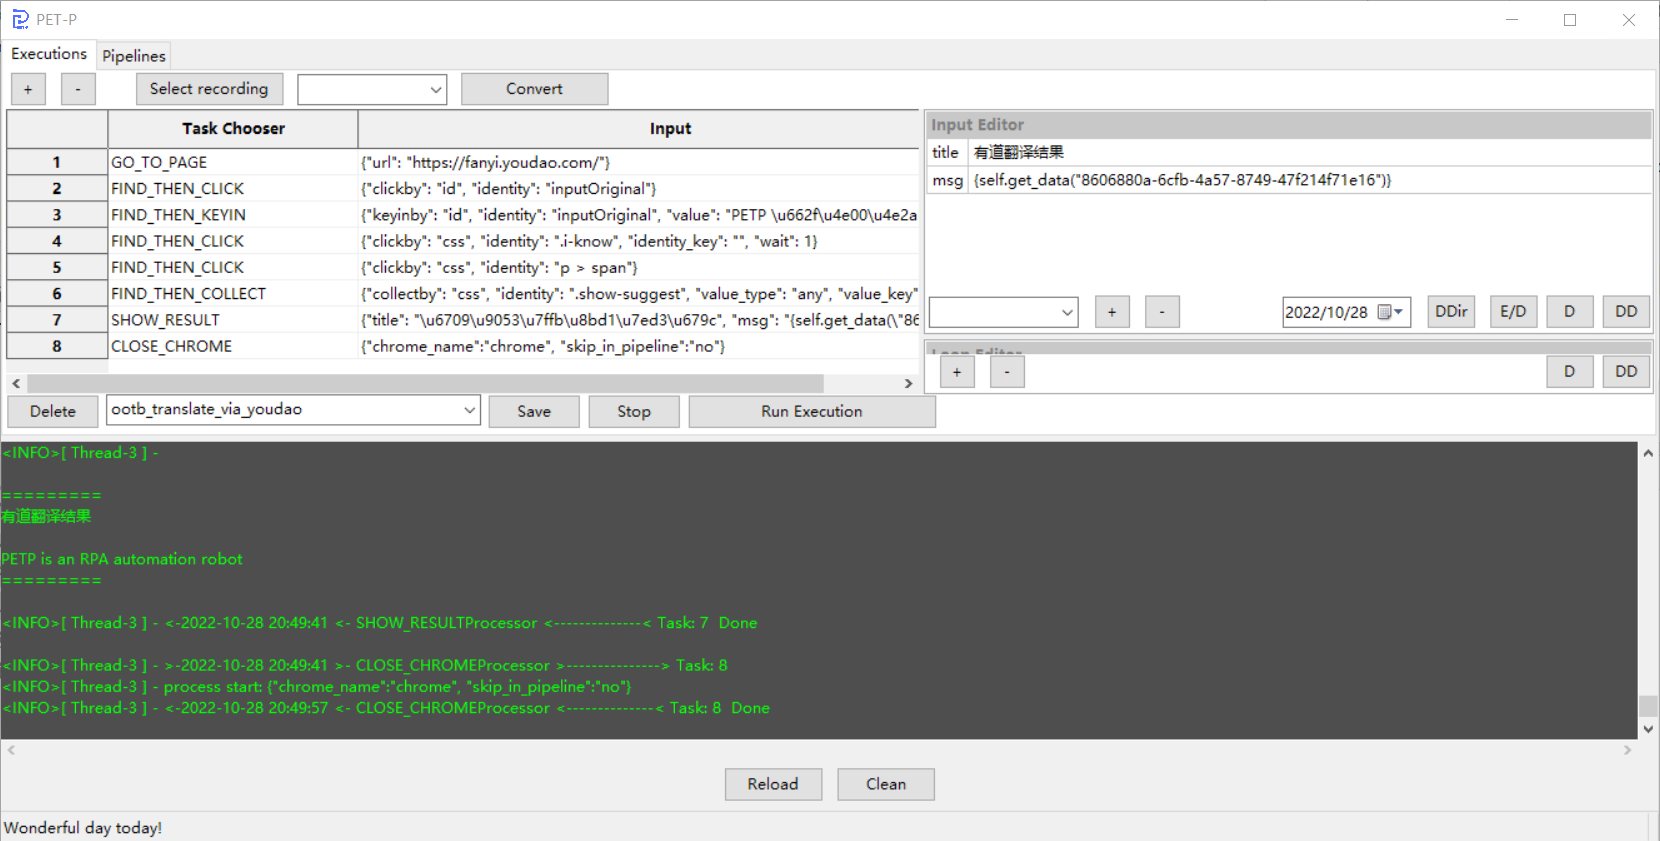
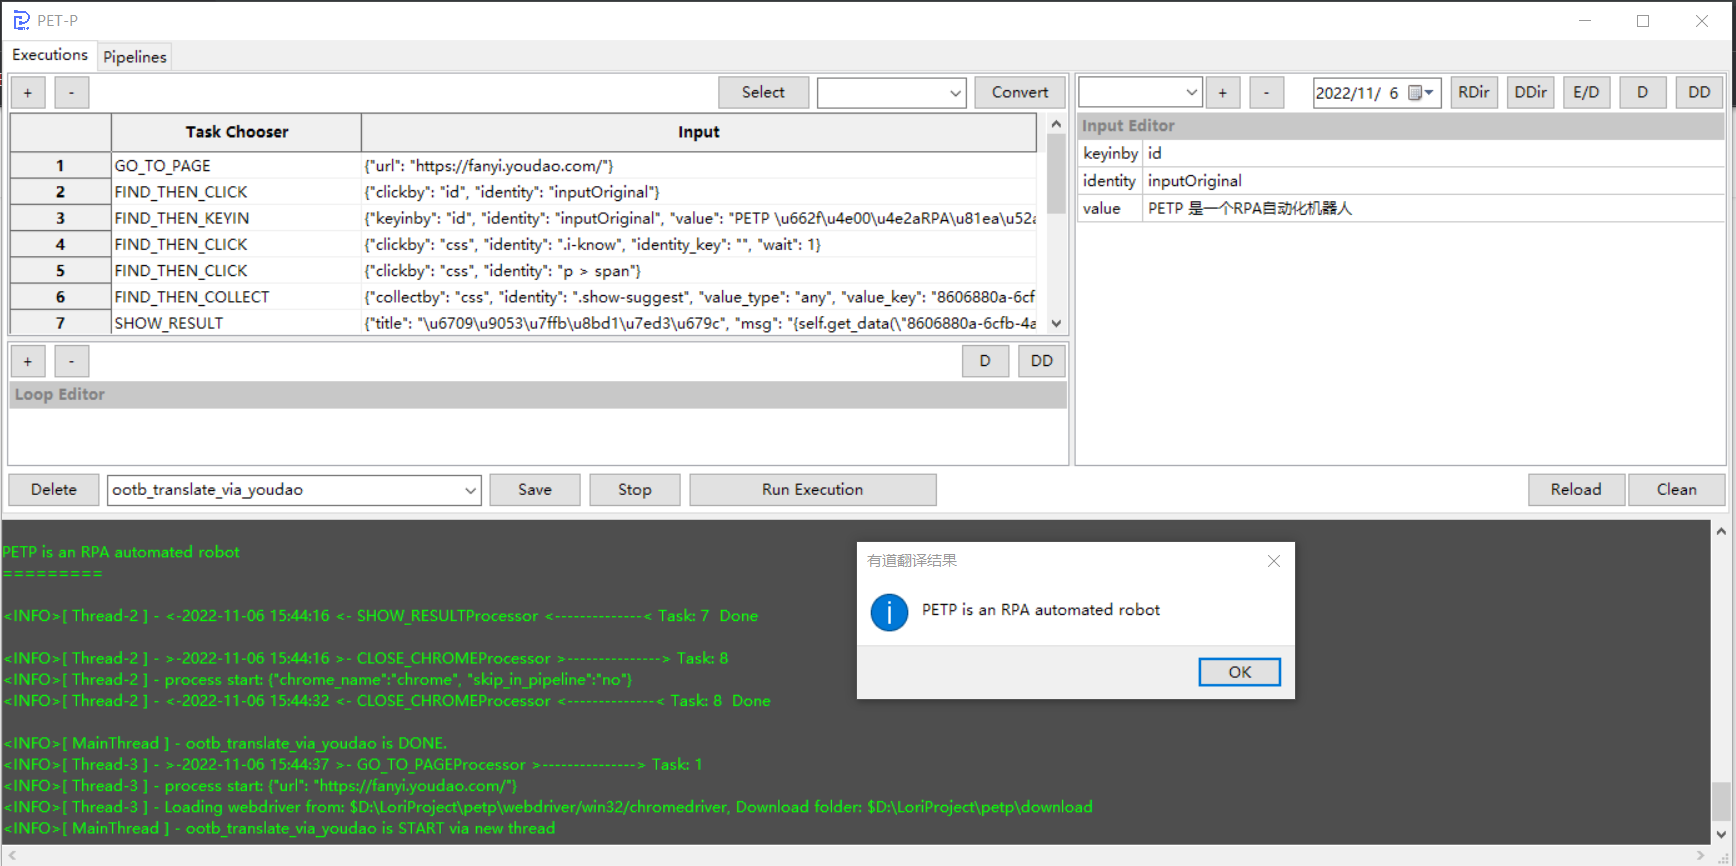
new UI, prepare next release

diff --git a/readme.md b/readme.md
@@ -62,6 +62,10 @@ Windows
 
 ## DONE:
 
+2022-11: Samplify & Optimize entire [UI](./mvp/view).
+
+2022-11: clean & restructure code UI event binding.  
+
 2022-10: Enhancement [GUI](./mvp) none-blocking execution
 
 2022-09: Support last run feature
